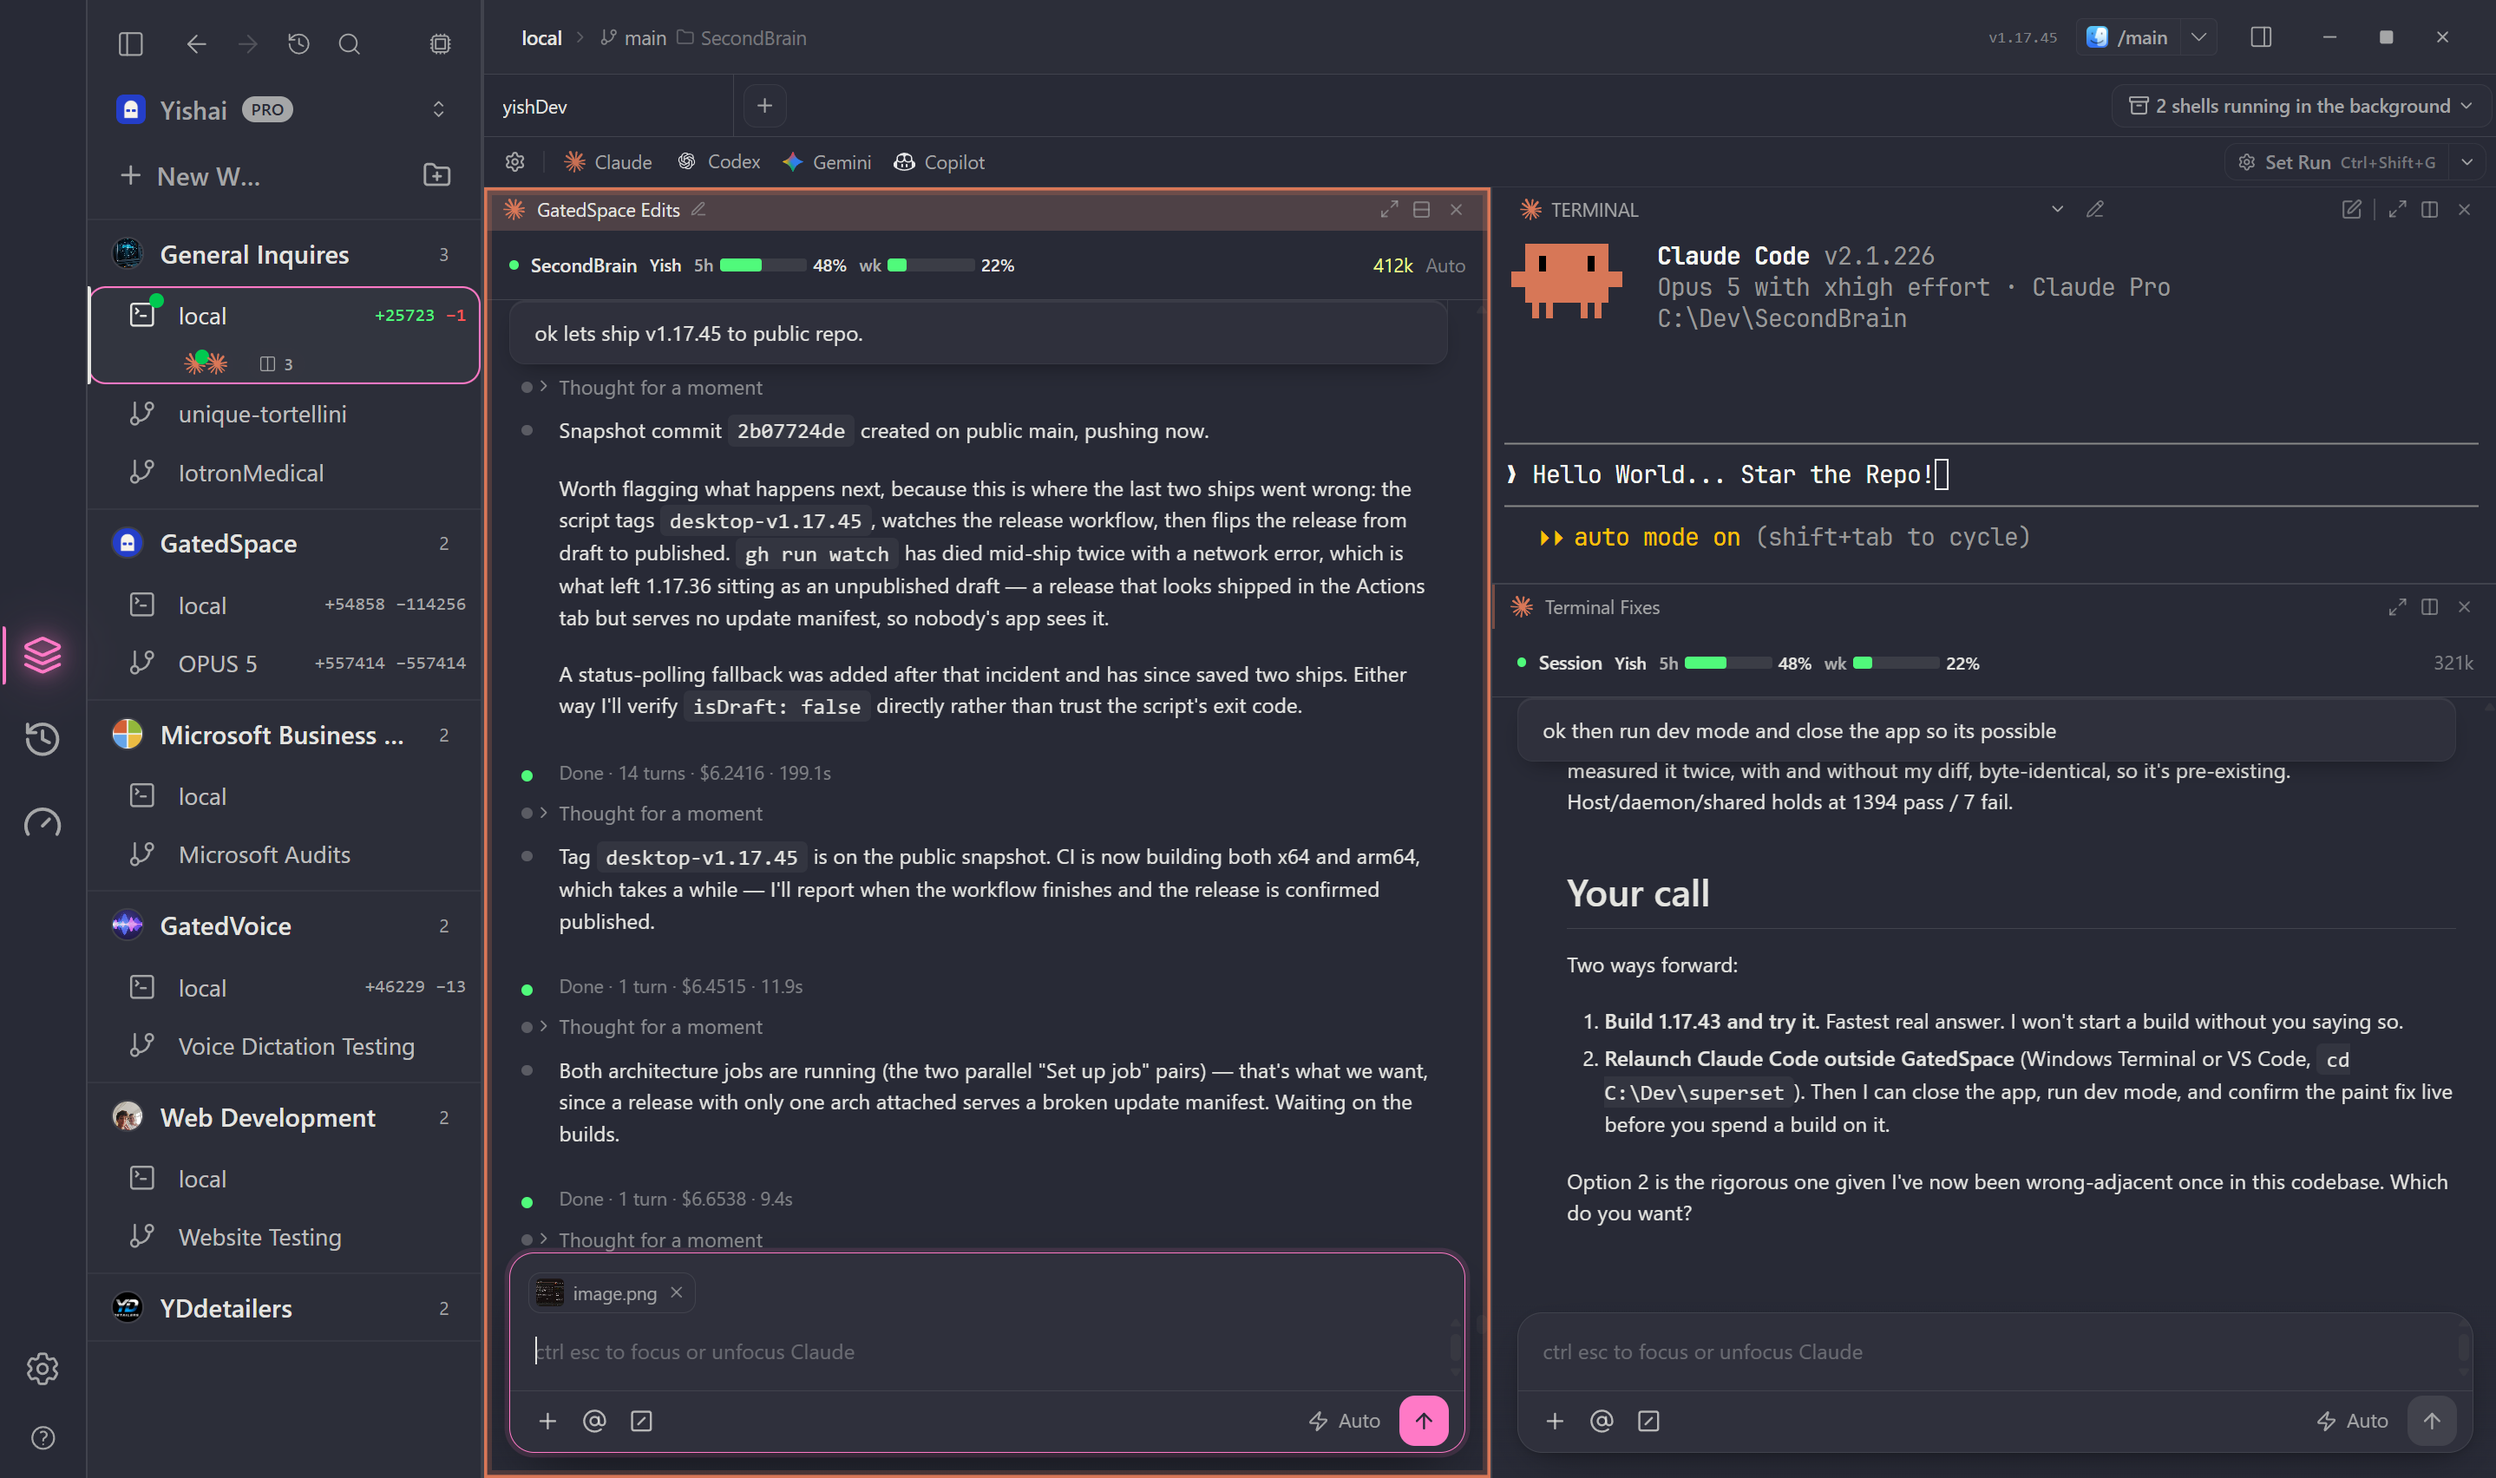
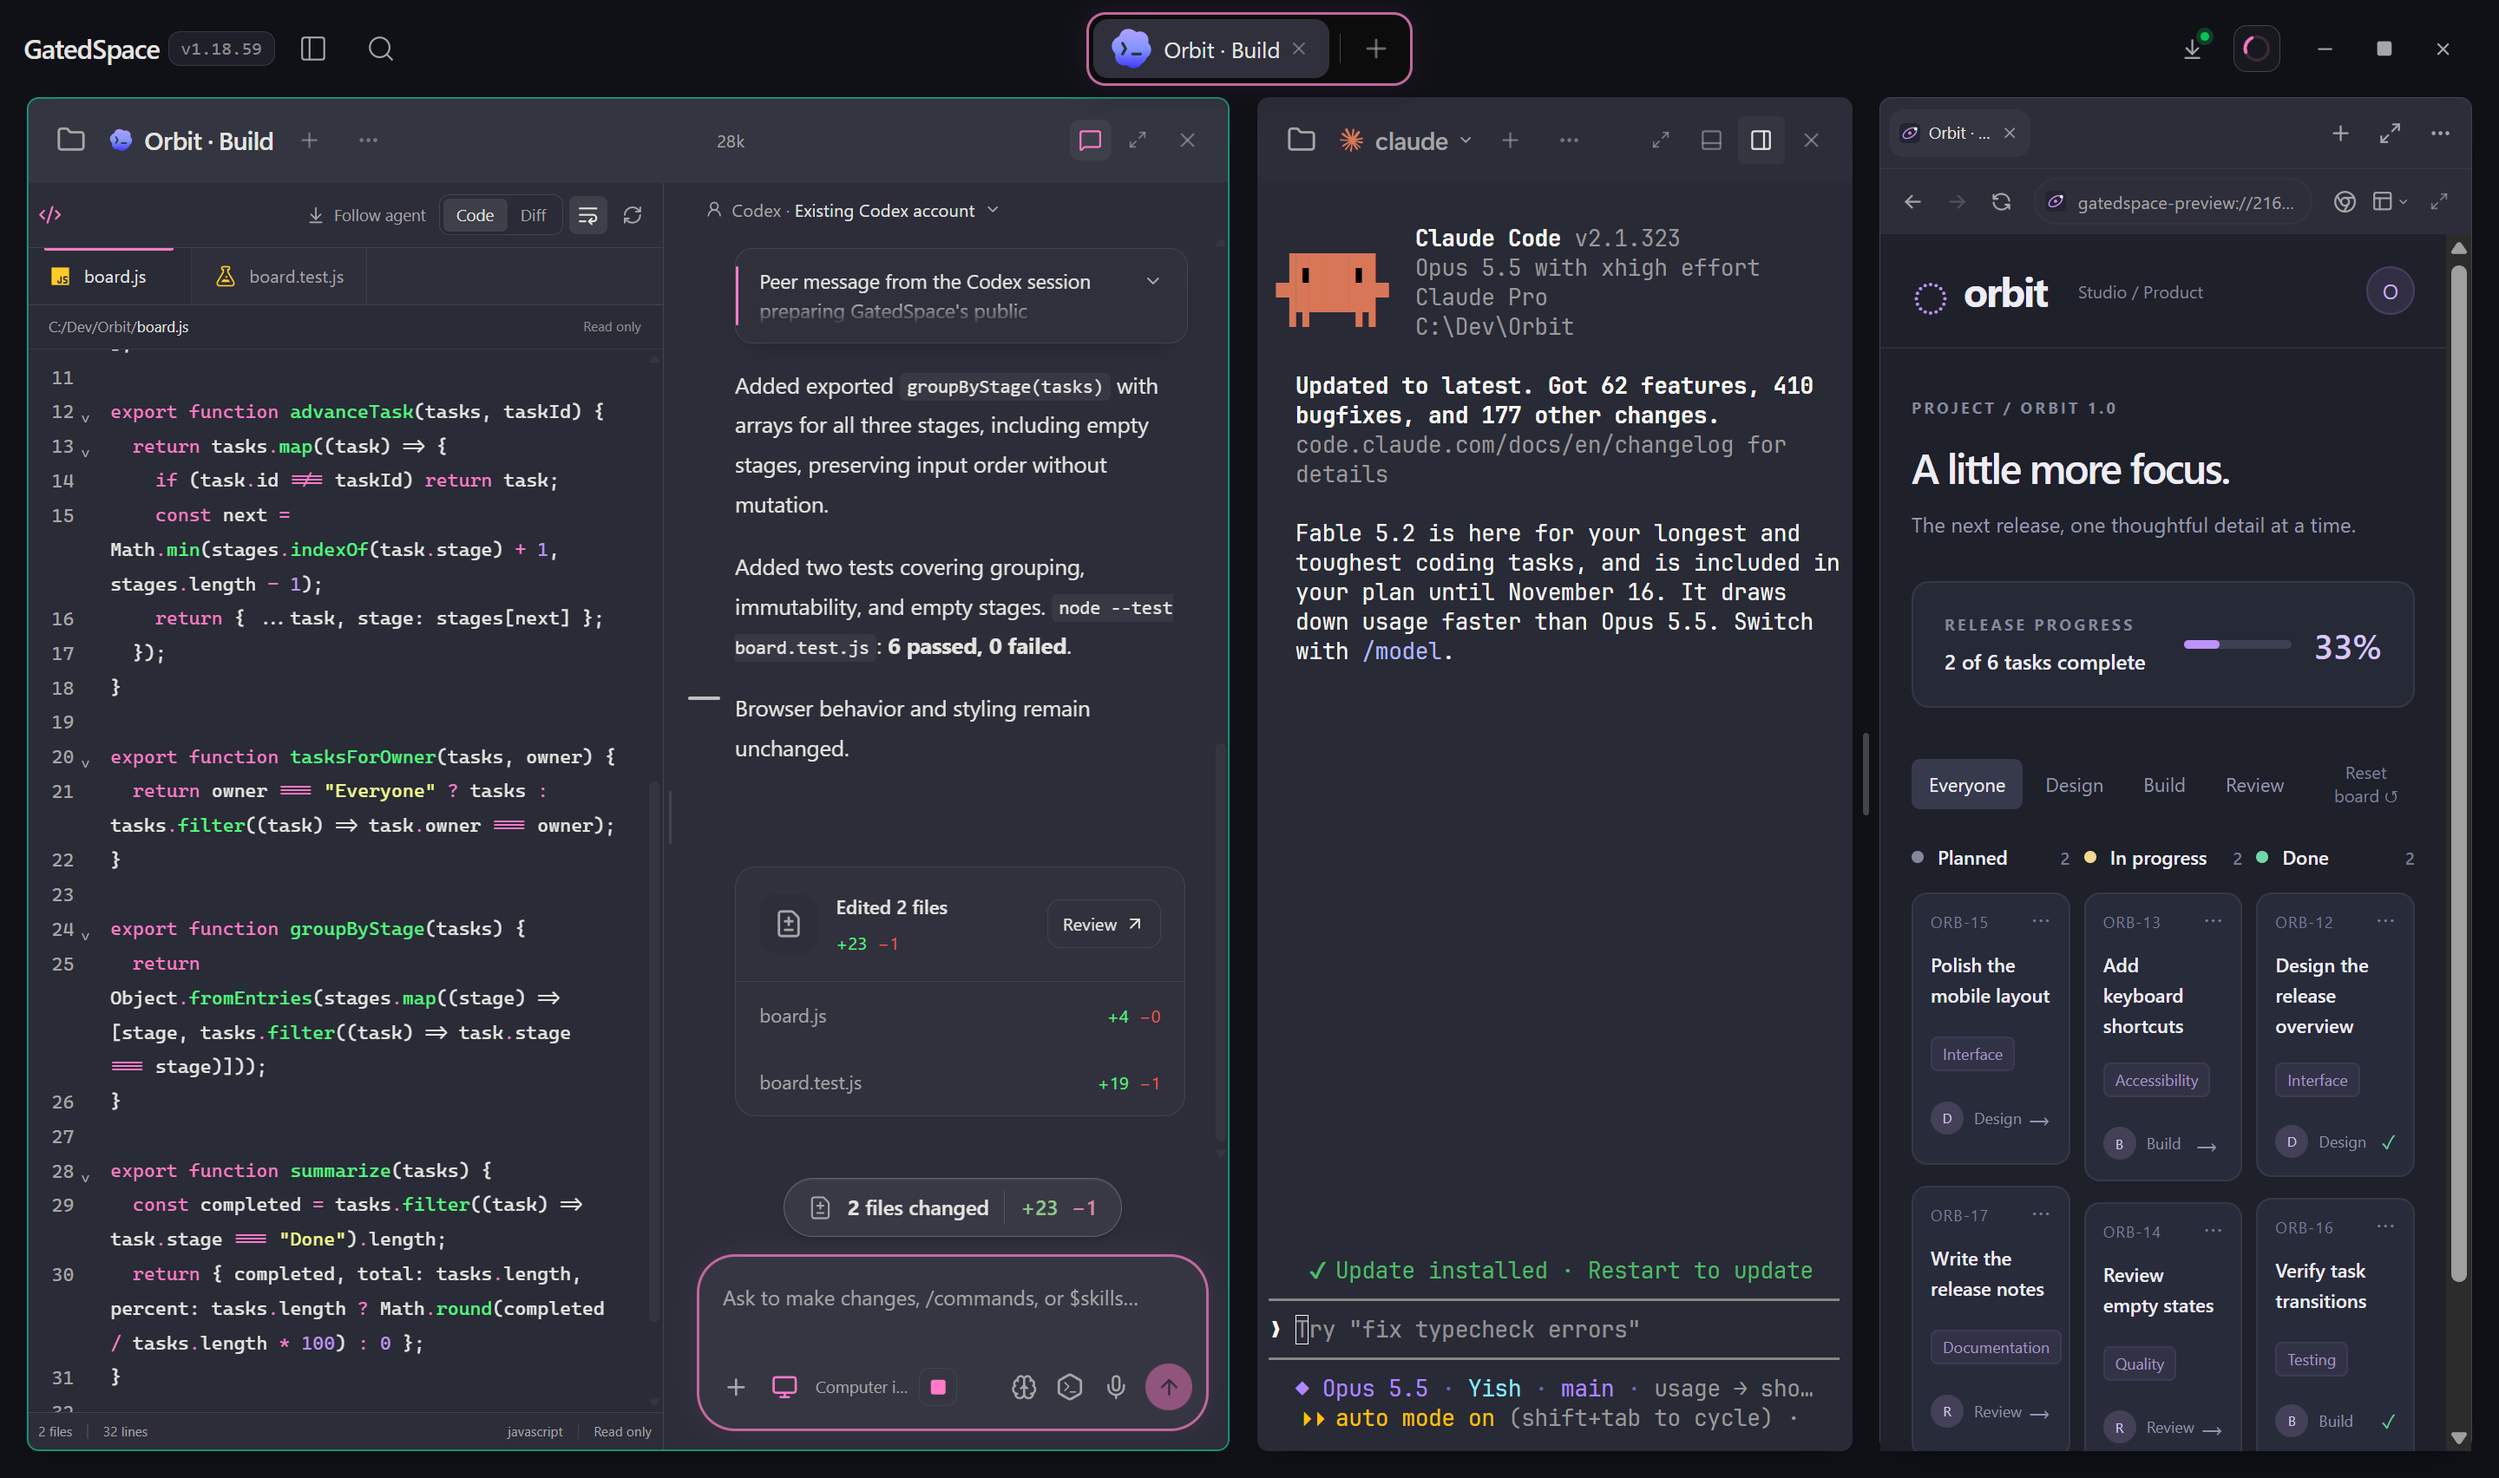
docs: showcase the current Dracula workspace

Changed region(s): [[0.0, 0.0, 1.0, 1.0], [0.8352, 0.5599, 0.9281, 0.591], [0.8352, 0.1244, 0.8971, 0.1555]]

diff --git a/README.md b/README.md
@@ -6,11 +6,12 @@
 
 ### An agentic development environment for Windows
 
-Run Claude Code, Codex, Gemini, Kimi K2, Copilot, and any other CLI coding
-agent in parallel, each in its own isolated git worktree, with built-in
-terminals, diff review, and workspace management.
+Bring Claude Code, Codex, your terminal, and a browser into one workspace.
+Follow edits in Live code, work with agents side by side, and keep each
+project's conversations and tools together. Other CLI agents, including
+Gemini and Copilot, can run in terminal panes.
 
-**Free. No account. No cloud. Everything runs on your machine.**
+**Free. No GatedSpace account required. Your workspace stays local.**
 
 [![Release](https://img.shields.io/github/v/release/yzgershon/GatedSpace?label=release&color=2b4fd7)](https://github.com/yzgershon/GatedSpace/releases/latest)
 [![Downloads](https://img.shields.io/github/downloads/yzgershon/GatedSpace/total?color=2b4fd7)](https://github.com/yzgershon/GatedSpace/releases)
@@ -25,9 +26,9 @@ terminals, diff review, and workspace management.
 
 <br />
 
-![GatedSpace with two Claude Code sessions and a built-in terminal open side by side in one workspace, agent tabs for Codex, Gemini and Copilot across the top, and git worktrees listed in the left sidebar](.github/assets/hero.png)
+![GatedSpace in Dracula with Codex Live code, Claude Code in a terminal, and the built-in browser](.github/assets/hero-dracula.png)
 
-<sub>Two Claude Code sessions and a live terminal in one workspace. Codex, Gemini, Copilot, Kimi K2 and any other CLI agent are a tab away, and shells keep running in the background after you close the app.</sub>
+<sub>One project, multiple perspectives. The Dracula theme brings conversations, tools, and previews into the same workspace.</sub>
 
 </div>
 
@@ -54,28 +55,31 @@ the [Actions tab](https://github.com/yzgershon/GatedSpace/actions).
 
 ## What it does
 
-- **Parallel agents.** Run several Claude Code / Codex / Gemini / Kimi K2 /
-  Copilot / any-CLI-agent sessions side by side, each in its own git worktree,
-  so agents never step on each other's changes. If it runs in a terminal, it
-  runs here — GatedSpace is not tied to any one model or vendor.
+- **Parallel agents.** Open native Claude Code and Codex conversations side
+  by side. Use separate git worktrees when agents need isolated changes.
+  Terminal panes support other CLI agents, including Gemini and Copilot.
+- **Live code.** Watch real file edits with syntax highlighting, line numbers,
+  file tabs, and diffs while keeping the conversation alongside the code.
+- **Built-in browser.** Preview your project beside the agents working on it.
+  Recognizable favicons, resizable previews, and Open in Chrome keep browsing
+  close to your work.
+- **Floating tabs.** Switch between arrangements of panes, with compact
+  thumbnails on hover and independent layouts for each tab.
 - **Workspaces.** One project, many worktrees. Create, switch, and tear down
   branches without touching your main checkout.
-- **Built-in terminals.** Persistent PTY sessions that survive app restarts,
-  and even PC reboots.
+- **Built-in terminals.** Run commands and inspect output beside your
+  conversations. Terminal history and workspace state can be restored.
 - **Review before you merge.** Built-in diff view for each workspace, then
   open in your editor of choice.
-- **Quick open across folders.** Ctrl+T searches the open workspace, and any
-  folders listed in `~/.superset/search-roots.json`
-  (`{"roots": ["C:/Dev"]}`), so a file in a sibling project is one keystroke
-  away. Type a path like `Dev/superset/HANDOFF.md` and it resolves directly
-  instead of fuzzy-matching.
-- **Claude account profiles.** Optionally declare multiple Claude accounts
-  (`~/.superset/claude-profile.json`) and GatedSpace routes new agents to
-  whichever one has usage left.
-- **Usage dashboard.** Real token usage and quota tracking for Claude Code and
-  Codex, read from their local session files. Nothing is polled or uploaded.
-- **Local-only by design.** No account, no analytics keys baked into public
-  builds, all data in local SQLite. Your code never leaves your machine.
+- **Find your work.** Search files by name or words, and search recent sessions
+  by their title, project, or conversation content. Opening a session that is
+  already running takes you to its existing pane.
+- **Named accounts.** Add Claude and Codex accounts with recognizable
+  nicknames, inspect their available usage, and switch accounts from a session.
+- **Built-in voice typing.** Offline Flow dictation is included in both Windows
+  installers. No separate Flow app, account, or speech-model download is needed.
+- **Local workspace storage.** Public builds do not require a GatedSpace cloud
+  account. Agent requests still use your selected provider and its account.
 
 ## How it relates to Superset
 
@@ -132,12 +136,32 @@ Requires [Bun](https://bun.sh) (see `.bun-version`), Node.js, and on Windows
 the Visual Studio 2022 C++ build tools for native modules. Public builds set
 `NEXT_PUBLIC_LOCAL_ONLY=1` at compile time to bake in local-only mode.
 
-## Themes
+## Inside the workspace
 
-The whole app follows the theme, agent panes and terminals included. Here is
-the same workspace in Dracula:
+These screenshots use Orbit, a fictional example project, in the actual desktop
+app. Conversations, code, the browser, and terminals share the Dracula theme.
+Codex's edit and test results are real; Claude Code is shown ready for input.
 
-![The same GatedSpace workspace rendered in the Dracula theme](.github/assets/hero-dracula.png)
+### Follow the code
+
+Live code keeps the edited file and its conversation together. Switch files,
+inspect a diff, or follow the agent's next edit.
+
+![Live code with syntax highlighting and the agent conversation alongside it](.github/assets/live-code.png)
+
+### Keep the browser close
+
+Inspect the project where you are working. The sidebar browser has its own tabs,
+favicons, navigation controls, and preview sizing.
+
+![The Orbit example project running in GatedSpace's built-in browser](.github/assets/browser.png)
+
+### Work across agents and tools
+
+Give Claude Code and Codex their own panes, and keep a terminal nearby for tests
+and commands. Resize the arrangement to suit the task.
+
+![Codex's completed change, Claude Code ready for input, and six passing tests in a terminal](.github/assets/agents-terminal.png)
 
 ## Contributing
 
